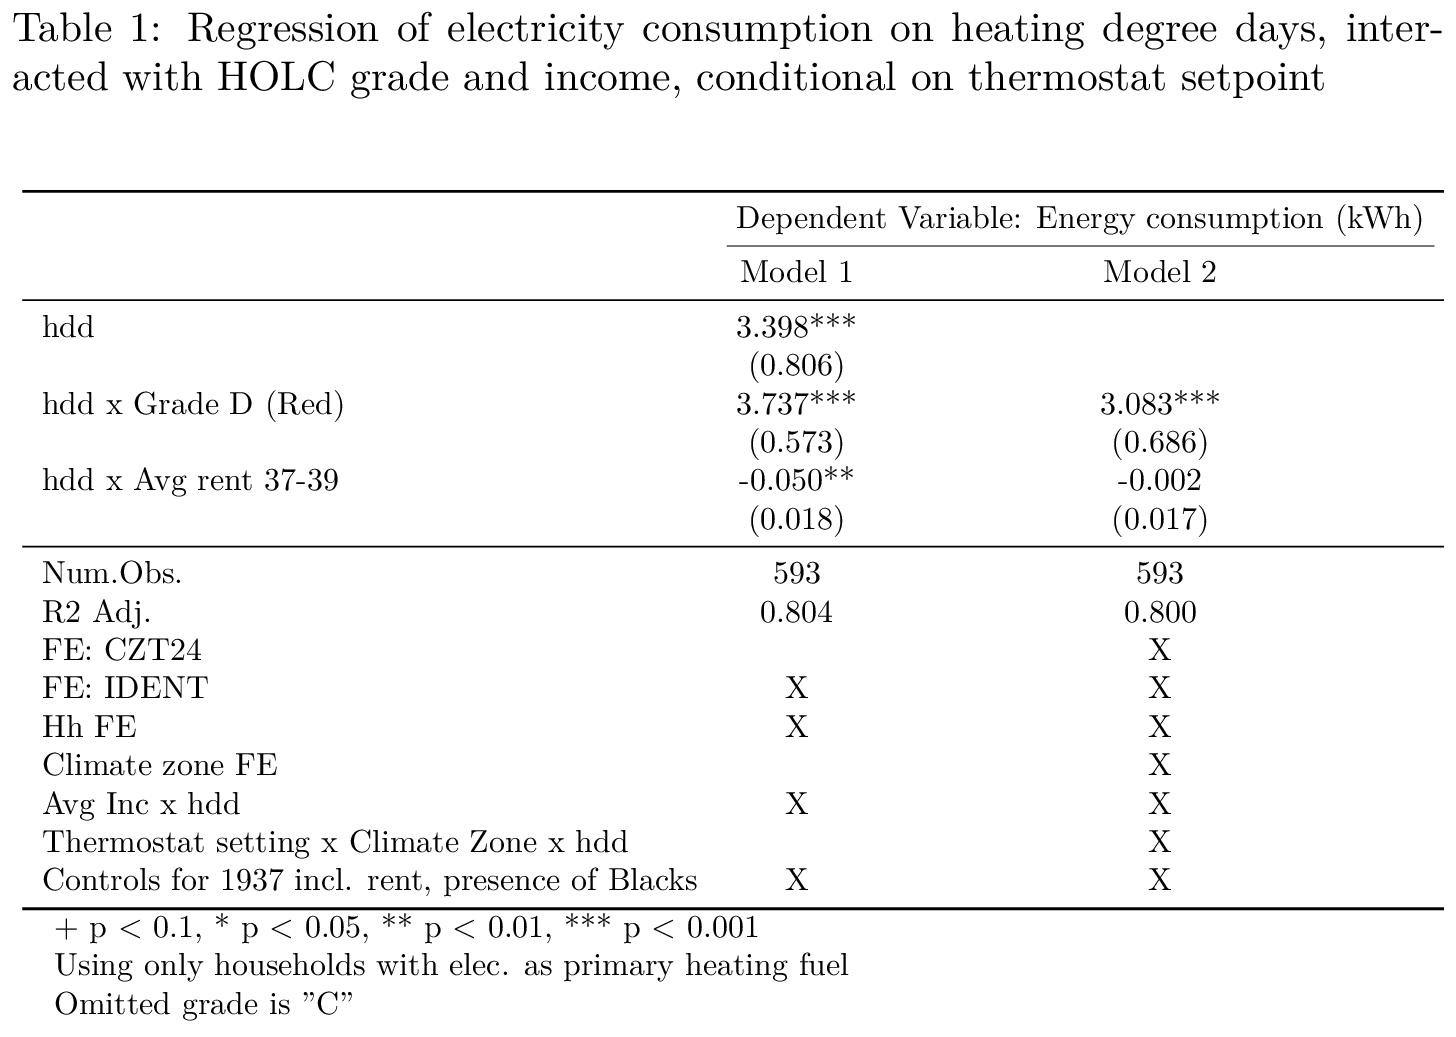
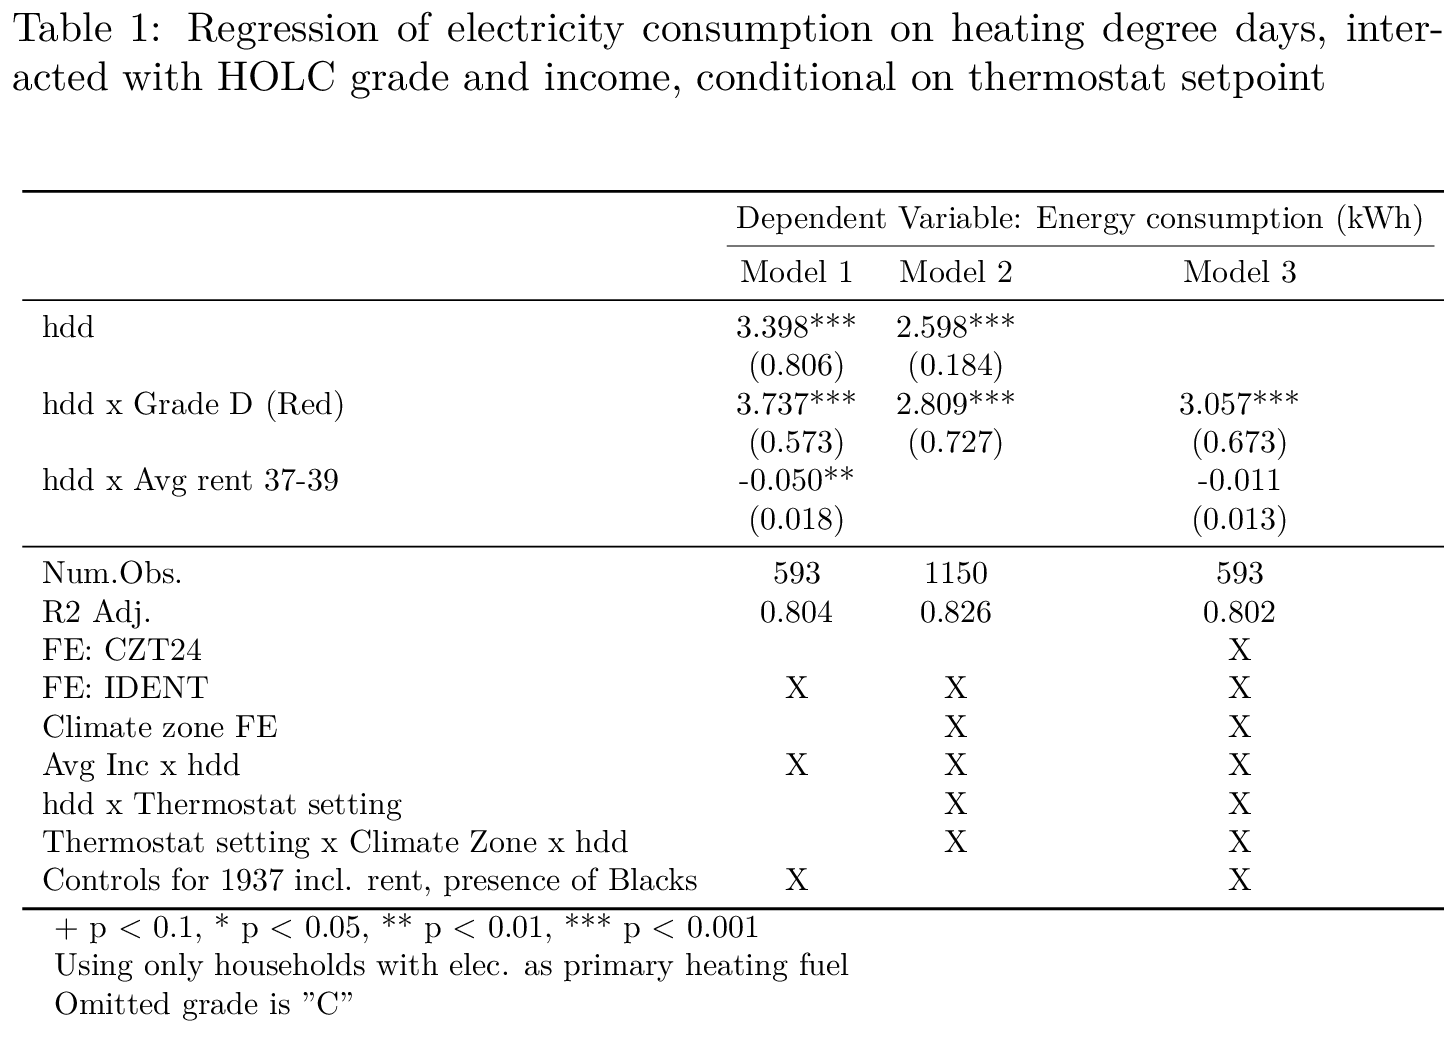
closer to final - as submitted to AERE

diff --git a/Presentations/AERE 2021/AERE-2021.html b/Presentations/AERE 2021/AERE-2021.html
@@ -17,7 +17,7 @@ class: center, middle, inverse, title-slide
 ## AERE 2021
 ### A. Justin Kirkpatrick
 ### Michigan State University
-### June 2021<br><br><br>.font60[Generous funding provided by the Nicholas Institute at Duke]
+### June 2021<br><br><br>.font70[Generous funding provided by the Nicholas Institute at Duke]<br><a href="https://tinyurl.com/kirkpatrickAERE21">Most recent web-based slides here</a>
 
 ---
 

diff --git a/TEXOUT/ResponseOutpute2.tex b/TEXOUT/ResponseOutpute2.tex
@@ -29,32 +29,32 @@
 \caption{Regression of electricity consumption on heating degree days, interacted with HOLC grade and income, conditional on thermostat setpoint\label{tab:electricresponsethemset1}}
 \centering
 \resizebox{\linewidth}{!}{
-\begin{tabular}[t]{lcc}
+\begin{tabular}[t]{lccc}
 \toprule
-\multicolumn{1}{c}{ } & \multicolumn{2}{c}{Dependent Variable: Energy consumption (kWh)} \\
-\cmidrule(l{3pt}r{3pt}){2-3}
-  & Model 1 & Model 2\\
+\multicolumn{1}{c}{ } & \multicolumn{3}{c}{Dependent Variable: Energy consumption (kWh)} \\
+\cmidrule(l{3pt}r{3pt}){2-4}
+  & Model 1 & Model 2 & Model 3\\
 \midrule
-hdd & 3.398*** & \\
- & (0.806) & \\
-hdd x Grade D (Red) & 3.737*** & 3.083***\\
- & (0.573) & (0.686)\\
-hdd x Avg rent 37-39 & -0.050** & -0.002\\
- & (0.018) & (0.017)\\
+hdd & 3.398*** & 2.598*** & \\
+ & (0.806) & (0.184) & \\
+hdd x Grade D (Red) & 3.737*** & 2.809*** & 3.057***\\
+ & (0.573) & (0.727) & (0.673)\\
+hdd x Avg rent 37-39 & -0.050** &  & -0.011\\
+ & (0.018) &  & (0.013)\\
 \midrule
-Num.Obs. & 593 & 593\\
-R2 Adj. & 0.804 & 0.800\\
-FE: CZT24 &  & X\\
-FE: IDENT & X & X\\
-Hh FE & X & X\\
-Climate zone FE &  & X\\
-Avg Inc x hdd & X & X\\
-Thermostat setting x Climate Zone x hdd &  & X\\
-Controls for 1937 incl. rent, presence of Blacks & X & X\\
+Num.Obs. & 593 & 1150 & 593\\
+R2 Adj. & 0.804 & 0.826 & 0.802\\
+FE: CZT24 &  &  & X\\
+FE: IDENT & X & X & X\\
+Climate zone FE &  & X & X\\
+Avg Inc x hdd & X & X & X\\
+hdd x Thermostat setting &  & X & X\\
+Thermostat setting x Climate Zone x hdd &  & X & X\\
+Controls for 1937 incl. rent, presence of Blacks & X &  & X\\
 \bottomrule
-\multicolumn{3}{l}{\textsuperscript{} + p $<$ 0.1, * p $<$ 0.05, ** p $<$ 0.01, *** p $<$ 0.001}\\
-\multicolumn{3}{l}{\textsuperscript{} Using only households with elec. as primary heating fuel}\\
-\multicolumn{3}{l}{\textsuperscript{} Omitted grade is "C"}\\
+\multicolumn{4}{l}{\textsuperscript{} + p $<$ 0.1, * p $<$ 0.05, ** p $<$ 0.01, *** p $<$ 0.001}\\
+\multicolumn{4}{l}{\textsuperscript{} Using only households with elec. as primary heating fuel}\\
+\multicolumn{4}{l}{\textsuperscript{} Omitted grade is "C"}\\
 \end{tabular}}
 \end{table}
 \end{document}

diff --git a/TEXOUT/ResponseOutputg2.tex b/TEXOUT/ResponseOutputg2.tex
@@ -29,31 +29,31 @@
 \caption{Regression of natural gas consumption on heating degree days, interacted with HOLC grade and income, conditional on thermostat setpoint\label{tab:electricresponsethemset1}}
 \centering
 \resizebox{\linewidth}{!}{
-\begin{tabular}[t]{lcc}
+\begin{tabular}[t]{lccc}
 \toprule
-\multicolumn{1}{c}{ } & \multicolumn{2}{c}{Dependent Variable: Energy consumption (therms)} \\
-\cmidrule(l{3pt}r{3pt}){2-3}
-  & Model 1 & Model 2\\
+\multicolumn{1}{c}{ } & \multicolumn{3}{c}{Dependent Variable: Energy consumption (therms)} \\
+\cmidrule(l{3pt}r{3pt}){2-4}
+  & Model 1 & Model 2 & Model 3\\
 \midrule
-hdd & 0.311*** & \\
- & (0.089) & \\
-hdd x Grade D (Red) & 0.121 & 0.157\\
- & (0.244) & (0.260)\\
-hdd x Avg rent 37-39 & -0.001 & 0.000\\
- & (0.001) & (0.001)\\
+hdd & 0.311*** & 0.280* & \\
+ & (0.089) & (0.111) & \\
+hdd x Grade D (Red) & 0.121 & 0.112 & 0.144\\
+ & (0.244) & (0.245) & (0.247)\\
+hdd x Avg rent 37-39 & -0.001 & -0.001 & 0.001\\
+ & (0.001) & (0.002) & (0.001)\\
 \midrule
-Num.Obs. & 3623 & 3623\\
-R2 Adj. & 0.564 & 0.552\\
-FE: CZT24 &  & X\\
-FE: IDENT & X & X\\
-Hh FE & X & X\\
-Hdd x avg inc & X & X\\
-Hdd x thermostat setting x Climate Zone &  & X\\
-Hdd x controls for 1937 incl. rent, presence of Blacks & X & X\\
+Num.Obs. & 3623 & 3623 & 3623\\
+R2 Adj. & 0.564 & 0.563 & 0.556\\
+FE: CZT24 &  &  & X\\
+FE: IDENT & X & X & X\\
+Hdd x avg inc & X & X & X\\
+hdd x thermostat setting &  & X & X\\
+Hdd x thermostat setting x Climate Zone &  &  & X\\
+Hdd x controls for 1937 incl. rent, presence of Blacks & X &  & X\\
 \bottomrule
-\multicolumn{3}{l}{\textsuperscript{} + p $<$ 0.1, * p $<$ 0.05, ** p $<$ 0.01, *** p $<$ 0.001}\\
-\multicolumn{3}{l}{\textsuperscript{} Using only households with natural gas as primary heating fuel}\\
-\multicolumn{3}{l}{\textsuperscript{} Omitted grade is "C"}\\
+\multicolumn{4}{l}{\textsuperscript{} + p $<$ 0.1, * p $<$ 0.05, ** p $<$ 0.01, *** p $<$ 0.001}\\
+\multicolumn{4}{l}{\textsuperscript{} Using only households with natural gas as primary heating fuel}\\
+\multicolumn{4}{l}{\textsuperscript{} Omitted grade is "C"}\\
 \end{tabular}}
 \end{table}
 \end{document}
